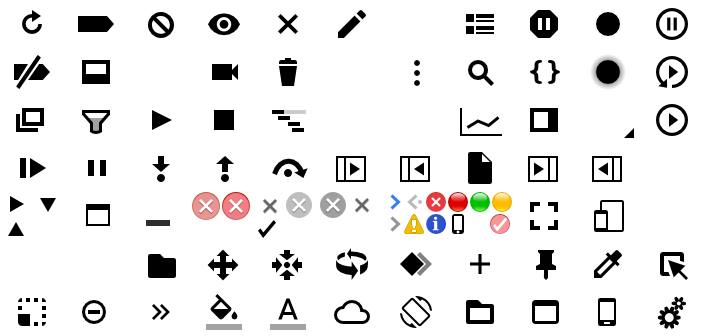
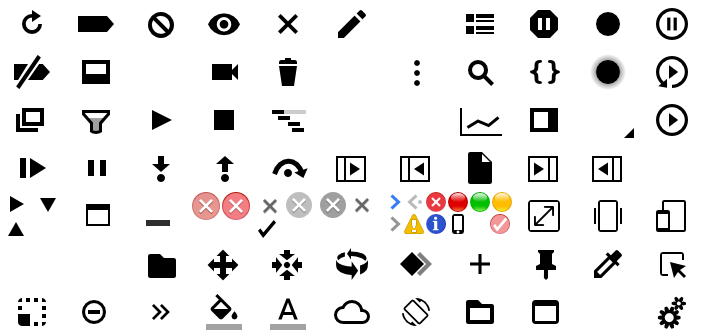
DevTools: fix UI regressions, render responsive presets with popular sizes.
BUG=578190
NOTRY=true

Review URL: https://codereview.chromium.org/1587423002

Cr-Original-Commit-Position: refs/heads/master@{#369852}
Cr-Mirrored-From: https://chromium.googlesource.com/chromium/src
Cr-Mirrored-Commit: 740b1d0e5d9c109fb11fff9104dd18517b1efdf7

diff --git a/WebKit/Source/devtools/front_end/emulation/DeviceModeView.js b/WebKit/Source/devtools/front_end/emulation/DeviceModeView.js
@@ -37,6 +37,8 @@ WebInspector.DeviceModeView.prototype = {
         this.contentElement.appendChild(this._toolbar.element());
 
         this._contentClip = this.contentElement.createChild("div", "device-mode-content-clip vbox");
+        this._responsivePresetsContainer = this._contentClip.createChild("div", "device-mode-presets-container");
+        this._populatePresetsContainer();
         this._mediaInspectorContainer = this._contentClip.createChild("div", "device-mode-media-container");
         this._contentArea = this._contentClip.createChild("div", "device-mode-content-area");
 
@@ -61,6 +63,40 @@ WebInspector.DeviceModeView.prototype = {
 
         this._pageArea = this._screenArea.createChild("div", "device-mode-page-area");
         this._pageArea.createChild("content");
+    },
+
+    _populatePresetsContainer: function()
+    {
+        var sizes = [320, 375, 425, 768, 1024, 1440, 2560];
+        var titles = [WebInspector.UIString("Mobile S"),
+                      WebInspector.UIString("Mobile M"),
+                      WebInspector.UIString("Mobile L"),
+                      WebInspector.UIString("Tablet"),
+                      WebInspector.UIString("Laptop"),
+                      WebInspector.UIString("Laptop L"),
+                      WebInspector.UIString("4K")]
+        this._presetBlocks = [];
+        var inner = this._responsivePresetsContainer.createChild("div", "device-mode-presets-container-inner")
+        for (var i = sizes.length - 1; i >= 0; --i) {
+            var outer = inner.createChild("div", "fill device-mode-preset-bar-outer");
+            var block = outer.createChild("div", "device-mode-preset-bar");
+            block.createChild("span").textContent = titles[i] + " \u2013 " + sizes[i] + "px";
+            block.addEventListener("click", applySize.bind(this, sizes[i]), false);
+            block.__width = sizes[i];
+            this._presetBlocks.push(block);
+        }
+
+        /**
+         * @param {number} width
+         * @param {!Event} e
+         * @this {WebInspector.DeviceModeView}
+         */
+        function applySize(width, e)
+        {
+            this._model.emulate(WebInspector.DeviceModeModel.Type.Responsive, null, null);
+            this._model.setSizeAndScaleToFit(width, 0);
+            e.consume();
+        }
     },
 
     toggleDeviceMode: function()
@@ -204,6 +240,8 @@ WebInspector.DeviceModeView.prototype = {
 
         if (this._model.scale() !== this._cachedScale) {
             updateRulers = true;
+            for (var block of this._presetBlocks)
+                block.style.width = block.__width * this._model.scale() + "px";
             this._cachedScale = this._model.scale();
         }
 
@@ -218,6 +256,14 @@ WebInspector.DeviceModeView.prototype = {
         }
         if (contentAreaResized)
             this._contentAreaResized();
+
+        if (this._model.type() !== this._cachedModelType) {
+            this._cachedModelType = this._model.type();
+            this._contentArea.classList.toggle("device-mode-type-none", this._cachedModelType === WebInspector.DeviceModeModel.Type.None);
+            this._contentArea.classList.toggle("device-mode-type-responsive", this._cachedModelType === WebInspector.DeviceModeModel.Type.Responsive);
+            this._contentArea.classList.toggle("device-mode-type-device", this._cachedModelType === WebInspector.DeviceModeModel.Type.Device);
+            this._responsivePresetsContainer.classList.toggle("hidden", this._cachedModelType === WebInspector.DeviceModeModel.Type.None);
+        }
     },
 
     /**
@@ -530,7 +576,6 @@ WebInspector.DeviceModeView.Toolbar.prototype = {
         scaleItem.setTitle(WebInspector.UIString("Zoom"));
         scaleItem.setGlyph("");
         scaleItem.setBold(false);
-        scaleItem.setDimmed(true);
         scaleItem.addDropDownArrow();
         toolbar.appendToolbarItem(scaleItem);
         this._scaleItems.push(scaleItem);
@@ -875,28 +920,23 @@ WebInspector.DeviceModeView.Toolbar.prototype = {
         }
 
         if (this._model.scale() !== this._cachedScale) {
-            for (var item of this._scaleItems)
+            for (var item of this._scaleItems) {
                 item.setText(WebInspector.UIString("%.0f%%", this._model.scale() * 100));
+                item.setState(this._model.scale() === 1 ? "off" : "on");
+            }
             this._cachedScale = this._model.scale();
         }
 
-        var offscreen = this._model.screenRect().width > this._model.visiblePageRect().width || this._model.screenRect().height > this._model.visiblePageRect().height;
-        if (offscreen !== this._cachedOffscreen) {
-            for (var item of this._scaleItems)
-                item.setDimmed(!offscreen);
-            this._cachedOffscreen = offscreen;
-        }
-
         var deviceScale = this._model.deviceScaleFactorSetting().get();
+        this._deviceScaleItem.setVisible(this._model.type() === WebInspector.DeviceModeModel.Type.Responsive && !!deviceScale);
         if (deviceScale !== this._cachedDeviceScale) {
-            this._deviceScaleItem.setVisible(!!deviceScale);
             this._deviceScaleItem.setText(WebInspector.UIString("DPR: %.1f", deviceScale));
             this._cachedDeviceScale = deviceScale;
         }
 
         var uaType = this._model.type() === WebInspector.DeviceModeModel.Type.Responsive ? this._model.uaSetting().get() : WebInspector.DeviceModeModel.UA.Mobile;
+        this._uaItem.setVisible(this._model.type() === WebInspector.DeviceModeModel.Type.Responsive && uaType !== WebInspector.DeviceModeModel.UA.Mobile);
         if (uaType !== this._cachedUaType) {
-            this._uaItem.setVisible(uaType !== WebInspector.DeviceModeModel.UA.Mobile);
             this._uaItem.setText(uaType === WebInspector.DeviceModeModel.UA.Desktop ? WebInspector.UIString("Desktop") : WebInspector.UIString("Touch"));
             this._cachedUaType = uaType;
         }

diff --git a/WebKit/Source/devtools/front_end/emulation/deviceModeView.css b/WebKit/Source/devtools/front_end/emulation/deviceModeView.css
@@ -8,12 +8,12 @@
     overflow: hidden;
     align-items: stretch;
     flex: auto;
-    background-color: #fcfcfc;
+    background-color: hsl(0, 0%, 98%);
 }
 
 .device-mode-toolbar {
     flex: none;
-    background-color: #f3f3f3;
+    background-color: hsl(0, 0%, 98%);
     border-bottom: 1px solid #ccc;
     display: flex;
     flex-direction: row;
@@ -68,10 +68,68 @@
     box-shadow: inset 0 -1px #ccc;
 }
 
+.device-mode-presets-container {
+    flex: 0 0 20px;
+    display: flex;
+}
+
+.device-mode-presets-container-inner {
+    flex: auto;
+    background-color: red;
+    justify-content: center;
+    position: relative;
+    background-color: hsl(0, 0%, 90%);
++}
+
+.device-mode-presets-container:hover {
+    transition: opacity 0.1s;
+    transition-delay: 50ms;
+    opacity: 1;
+}
+
+.device-mode-preset-bar-outer {
+    pointer-events: none;
+    display: flex;
+    justify-content: center;
+}
+
+.device-mode-preset-bar {
+    border: 2px solid hsl(0, 0%, 98%);
+    pointer-events: auto;
+    text-align: center;
+    flex: none;
+    cursor: pointer;
+    color: #333;
+    display: flex;
+    align-items: center;
+    justify-content: center;
+    white-space: nowrap;
+}
+
+.device-mode-preset-bar:hover {
+    transition: background-color 0.1s;
+    transition-delay: 50ms;
+    background-color: #d6d6d6;
+}
+
+.device-mode-preset-bar > span {
+    visibility: hidden;
+}
+
+.device-mode-preset-bar:hover > span {
+    transition: visibility 0.1s;
+    transition-delay: 50ms;
+    visibility: visible;
+}
+
 .device-mode-content-area {
     flex: auto;
     position: relative;
     margin: 0;
+}
+
+.device-mode-content-area:not(.device-mode-type-none):not(.device-mode-rulers-visible) {
+    margin-top: 20px;
 }
 
 .device-mode-screen-area {

diff --git a/WebKit/Source/devtools/front_end/emulation/DeviceModeModel.js b/WebKit/Source/devtools/front_end/emulation/DeviceModeModel.js
@@ -428,6 +428,17 @@ WebInspector.DeviceModeModel.prototype = {
     },
 
     /**
+     * @param {number} width
+     * @param {number} height
+     */
+    setSizeAndScaleToFit: function(width, height)
+    {
+        var scale = Math.min(width ? this._preferredSize.width / width: 1, height ? this._preferredSize.height / height : 1);
+        this._scaleSetting.set(scale);
+        this.setWidth(width);
+    },
+
+    /**
      * @param {string} userAgent
      */
     _applyUserAgent: function(userAgent)

diff --git a/WebKit/Source/devtools/front_end/emulation/deviceModeToolbar.css b/WebKit/Source/devtools/front_end/emulation/deviceModeToolbar.css
@@ -11,6 +11,13 @@
     width: 39px !important;
     margin: 0 3px;
     text-align: center;
+    box-shadow: 0px 0px 1px 0px hsla(0, 0%, 0%, 0.13);
+    border-radius: 1px;
+    height: 18px;
+}
+
+.device-mode-size-input:focus::-webkit-input-placeholder {
+    color: transparent;
 }
 
 .device-mode-size-input.error-input {

diff --git a/WebKit/Source/devtools/front_end/ui/toolbar.css b/WebKit/Source/devtools/front_end/ui/toolbar.css
@@ -422,7 +422,7 @@ input.toolbar-item.hover {
 }
 
 .phone-toolbar-item.toolbar-glyph {
-    -webkit-mask-position: -288px -144px;
+    -webkit-mask-position: -320px -96px;
 }
 
 .rotate-screen-toolbar-item.toolbar-glyph {
